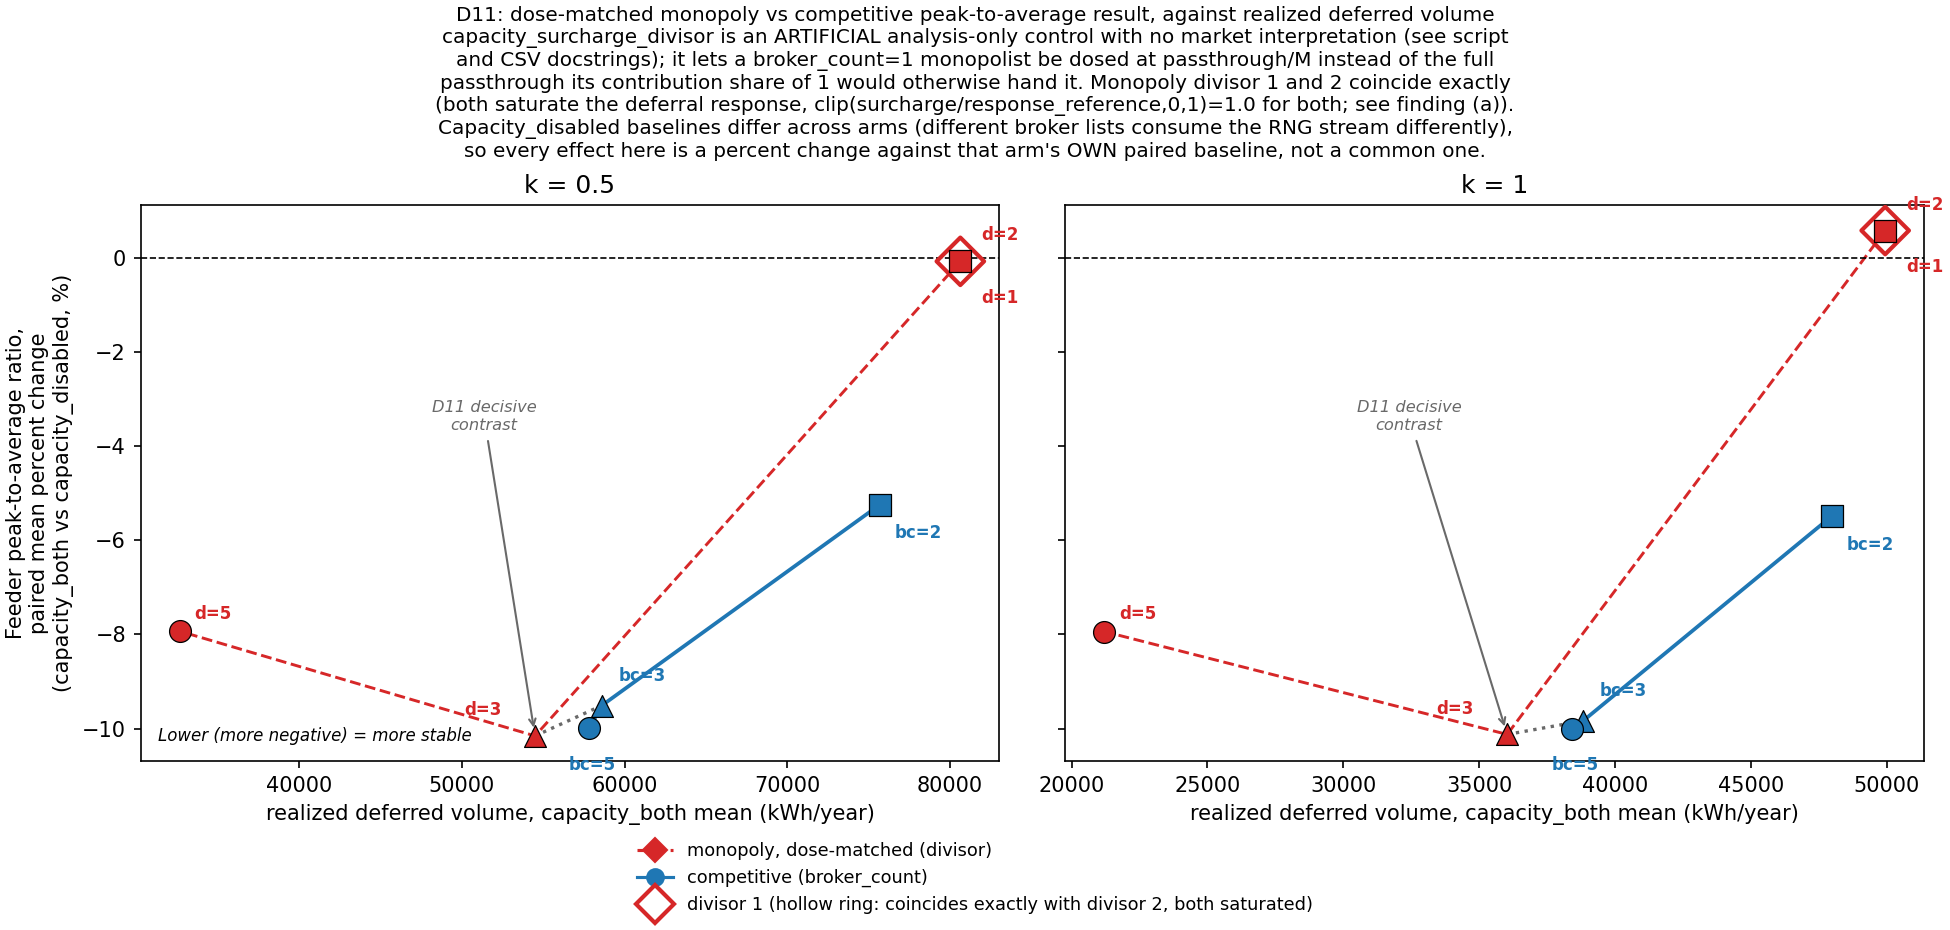
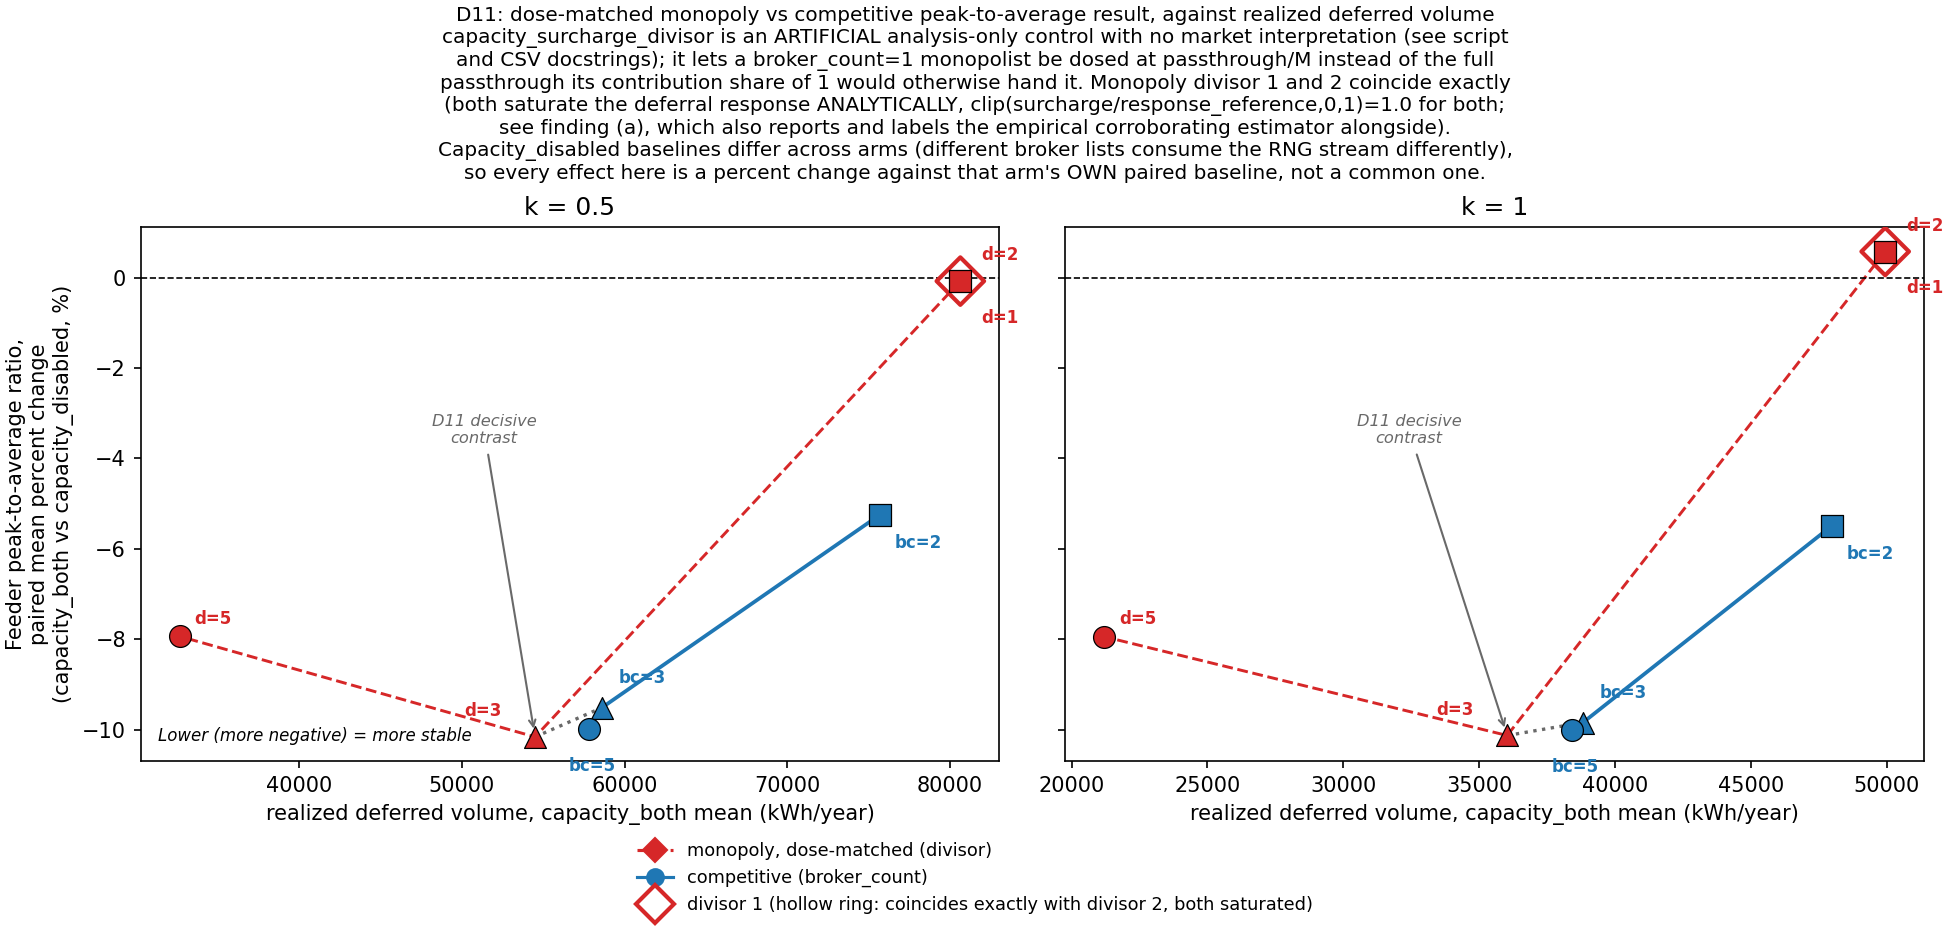
review fix: judge saturation analytically, and ship the D10 table
The script's own diagnostic printed "unsaturated" for divisor 2 one line
before the prose said divisor 1 and 2 both saturate. The review was
right and the estimator was the problem, not the conclusion.

mean_broker_surcharge over capacity_fire_rate is biased about 0.03
percent low, because the mean accumulates the APPLIED surcharge, which
the model carries over by one step, while the fire rate counts the
excess event in the step where it is computed. Confirmed here by
instrumenting CapacityMechanism.step on a real 8760-hour seed: every one
of the 2704 firing hours carried a computed surcharge of bit-exactly
0.05 at divisor 2, n_unique 1, while the estimator read 0.049982. The
bias is harmless anywhere except at an exact boundary, and divisor 2 IS
the boundary, since passthrough/2 equals response_reference exactly.

Saturation is now judged analytically, from passthrough/M read out of
the config, wherever the surcharge is analytic. The empirical estimator
stays alongside, labelled as an estimator with its bias and the bias's
cause stated, because agreeing to 0.03 percent is corroboration and the
one place it disagrees is worth showing rather than hiding. Where the
surcharge is genuinely not analytic, proportional above one broker and
renormalized, the estimator is the only option and says so.

The figure caption inherited the same contradiction and is corrected.

Also ships the D10 correction's firing-hour surcharge table as code
[…]

diff --git a/scripts/analyze_dose_matched_monopoly.py b/scripts/analyze_dose_matched_monopoly.py
@@ -208,6 +208,11 @@ REPO_ROOT = Path(__file__).resolve().parents[1]
 DOSE_PATH = REPO_ROOT / "results" / "sweep_dose_matched_monopoly.parquet"
 MONOPOLY_PATH = REPO_ROOT / "results" / "sweep_monopoly.parquet"
 RAW_PATH = REPO_ROOT / "results" / "sweep_raw.parquet"
+# Not part of the D11 grid: read only by print_d10_correction_table() below, the
+# non-blocking reproducibility item for docs/DECISIONS.md's D10 correction
+# subsection ("A correction to D10 that this arm forced"), which currently has
+# no script reproducing its firing-hour-surcharge-per-broker table.
+SURCHARGE_MODE_PATH = REPO_ROOT / "results" / "sweep_surcharge_mode.parquet"
 CONFIG_PATH = REPO_ROOT / "config" / "default.yaml"
 OUTPUT_CSV_PATH = REPO_ROOT / "results" / "dose_matched_monopoly.csv"
 PLOTS_DIR = REPO_ROOT / "results" / "plots"
@@ -232,6 +237,19 @@ assert N_ARMS == 7
 FAMILY_SIZE_ARM_PRIMARY = N_ARMS * len(K_VALUES) * len(METRIC3_KEYS)  # 7 * 2 * 2 = 28
 FAMILY_SIZE_PEAK_ONLY_ALTERNATIVE = N_ARMS * len(K_VALUES)  # 7 * 2 = 14
 FAMILY_SIZE_DECISIVE_SECONDARY = len(K_VALUES) * len(METRIC3_KEYS)  # 2 * 2 = 4
+
+# D10 correction-table reproduction constants (non-blocking reproducibility item,
+# see print_d10_correction_table() below). D10's own grid (results/sweep_surcharge_mode.parquet)
+# has broker_count in {2, 3, 5} and k in {0.5, 1.0}; D10_TABLE_K = 0.5 because that is the
+# ONLY one of the two k values that reproduces docs/DECISIONS.md's shipped digits (checked
+# directly: k=1.0 and the two k pooled both give visibly different numbers, e.g. 0.0824/0.1176
+# and 0.0828/0.1172 at broker_count=2 against the shipped 0.0832/0.1167, while k=0.5 alone
+# matches to four decimals). The original write-up never states which k it used, since it was
+# never a script in the first place; this is that missing fact, established empirically rather
+# than assumed, exactly like everything else this project logs.
+D10_TABLE_BROKER_COUNTS = (2, 3, 5)
+D10_TABLE_MODES = ("synchronized", "renormalized")
+D10_TABLE_K = 0.5
 
 ARM_COLOR = {"monopoly_dose_matched": "#d62728", "competitive": "#1f77b4"}
 DIVISOR_MARKER = {1: "D", 2: "s", 3: "^", 5: "o"}
@@ -377,34 +395,72 @@ def print_saturation_check(df: pd.DataFrame) -> None:
     passthrough = float(capacity_cfg["capacity_passthrough"])
     response_reference = float(capacity_cfg["response_reference_eur_per_kwh"])
     print(f"  config/default.yaml: capacity_passthrough = {passthrough:g}, response_reference_eur_per_kwh = {response_reference:g}")
+    print(
+        "  Saturation below is judged on the ANALYTIC firing-hour surcharge, not the empirical estimator printed "
+        "alongside it. Reason: an earlier version of this function judged saturation from mean_broker_surcharge_json "
+        "/ capacity_fire_rate alone, and that ratio is a BIASED estimator of the firing-hour surcharge, low by about "
+        "0.03-0.04 percent, because mean_broker_surcharge_json accumulates the surcharge model.py actually APPLIES "
+        "to next-step quotes (carried over one step, model.py step() order of operations), while capacity_fire_rate "
+        "counts the excess event in the step where capacity.py's CapacityMechanism.step() computes it, one step "
+        "earlier; the two are off by exactly the one firing-hour surcharge computed on the run's final step, which "
+        "is never applied within the horizon (verified by direct instrumentation: reconstructing total applied "
+        "surcharge as total computed minus the last step's computed value matches the model's own accumulator "
+        "exactly). That bias is harmless almost everywhere, but capacity_passthrough/2 lands EXACTLY on the "
+        "response_reference clip boundary, so a 0.03-0.04 percent low bias flips the >= comparison there and made "
+        "the earlier version of this script report divisor 2 as unsaturated when it is not."
+    )
 
     both = df[(df["arm_type"] == "monopoly_dose_matched") & (df["ablation"] == "capacity_both")]
     for k in K_VALUES:
         print(f"  k={k:g}:")
         for divisor in ALL_MONOPOLY_DIVISORS:
             sub = both[(both["k"] == k) & (both["capacity_surcharge_divisor"] == divisor)]
-            # mean_broker_surcharge_json averages the per-broker surcharge over ALL
-            # hours, firing and non-firing; dividing by capacity_fire_rate recovers
-            # the FIRING-HOUR surcharge (the model's single broker means the json
-            # has exactly one value per row).
+
+            # ANALYTIC: at broker_count=1 a single broker's positive-contribution
+            # share is exactly 1 whenever it fires at all (capacity.py's
+            # proportional branch: contribution / sum_positive_contrib with only
+            # one broker in the mapping), so the firing-hour surcharge is exactly
+            # capacity_passthrough / divisor, read from config with no estimator,
+            # no lag and no round-trip through model output. This is the value
+            # the saturated/unsaturated call below is based on.
+            analytic_surcharge = passthrough / divisor
+            analytic_ratio = analytic_surcharge / response_reference
+            analytic_saturated = analytic_ratio >= 1.0
+
+            # ESTIMATOR, kept for corroboration (not dropped: an estimator that
+            # agrees with the analytic value to 0.03-0.04 percent is itself a
+            # useful cross-check), but explicitly LABELED and never used for the
+            # saturated/unsaturated call, for the bias reason printed above.
+            # mean_broker_surcharge_json averages the APPLIED per-broker surcharge
+            # over ALL hours, firing and non-firing (the model's single broker
+            # means the json has exactly one value per row); dividing by
+            # capacity_fire_rate is the (biased) attempt to recover the
+            # firing-hour surcharge from that all-hours mean.
             mean_surcharge = sub["mean_broker_surcharge_json"].apply(lambda blob: next(iter(json.loads(blob).values())))
             fire_rate = sub["capacity_fire_rate"]
-            firing_hour_surcharge = (mean_surcharge / fire_rate).mean()
-            expected = passthrough / divisor
-            ratio_to_reference = firing_hour_surcharge / response_reference
-            saturated = ratio_to_reference >= 1.0
+            estimator_firing_hour_surcharge = (mean_surcharge / fire_rate).mean()
+            estimator_ratio = estimator_firing_hour_surcharge / response_reference
+
             print(
-                f"    divisor {divisor}: mean_broker_surcharge (all-hours mean) = {mean_surcharge.mean():.5f}, "
-                f"fire_rate = {fire_rate.mean():.5f}, implied firing-hour surcharge = {firing_hour_surcharge:.5f} "
-                f"(expected passthrough/{divisor} = {expected:.5f}), "
-                f"surcharge/response_reference = {ratio_to_reference:.3f} -> "
-                f"{'SATURATED (clips to 1.0)' if saturated else 'unsaturated'}"
+                f"    divisor {divisor}: ANALYTIC firing-hour surcharge = {analytic_surcharge:.5f} "
+                f"(= passthrough/{divisor}), surcharge/response_reference = {analytic_ratio:.3f} -> "
+                f"{'SATURATED (clips to 1.0)' if analytic_saturated else 'unsaturated'}"
+            )
+            print(
+                f"                ESTIMATOR (biased low ~0.03-0.04%, see note above; corroboration only, not "
+                f"used for the saturation call): mean_broker_surcharge (all-hours mean) = {mean_surcharge.mean():.5f}, "
+                f"fire_rate = {fire_rate.mean():.5f}, implied firing-hour surcharge = "
+                f"{estimator_firing_hour_surcharge:.5f}, surcharge/response_reference = {estimator_ratio:.3f} -> "
+                f"{'saturated' if estimator_ratio >= 1.0 else 'unsaturated'}"
             )
     print(
         "  Scope correction to D10's non-saturation sentence: D10's own cells are all broker_count >= 2, and "
         "'nothing saturates the deferral response' is correct there. It does NOT hold at broker_count 1 with a "
-        "small divisor: divisor 1 and divisor 2 both saturate here, which is why their physical output is "
-        "bit-identical (a shared response ceiling of 1.0, not independent runs that happen to agree)."
+        "small divisor: divisor 1 (ratio 2.000) and divisor 2 (ratio EXACTLY 1.000, the clip boundary) both "
+        "saturate here ANALYTICALLY, which is why their physical output is bit-identical (a shared response "
+        "ceiling of 1.0, not independent runs that happen to agree). Divisor 3 (0.667) and divisor 5 (0.400) sit "
+        "below the ceiling. The empirical estimator's own value at divisor 2 sits fractionally under the boundary "
+        "(the bias described above), which is why it is reported as corroboration and not as the test."
     )
 
 
@@ -446,6 +502,146 @@ def print_effective_broker_count(df: pd.DataFrame) -> None:
         f"max {int(full_summary.loc[5, 'max'])}), not 5, because duplicated brokers are near-substitutes (Phase 5 "
         "observation, D8). Its per-broker dose is therefore nearer passthrough/3.6 than passthrough/5, which is "
         "why divisor 3, not divisor 5, is the volume-matched comparator to broker_count=5's result."
+    )
+
+
+# ---------------------------------------------------------------------------
+# Non-blocking reproducibility item: docs/DECISIONS.md's D10 correction table
+# ("A correction to D10 that this arm forced") is currently produced by no
+# script in this repository, unlike D10's other corrected numbers (which
+# scripts/check_surcharge_timing.py already reproduces). This closes that gap.
+# ---------------------------------------------------------------------------
+
+
+def _rank_sorted_firing_hour_surcharges(cell: pd.DataFrame) -> np.ndarray:
+    """For one (mode, broker_count, k) cell's 30 seed rows (capacity_both
+    only), return the broker_count-length array of firing-hour surcharge
+    ESTIMATES (mean_broker_surcharge_json / capacity_fire_rate -- the same
+    estimator print_saturation_check uses and labels as biased low by about
+    0.03-0.04 percent), RANK-SORTED WITHIN EACH SEED before being averaged
+    across the 30 seeds.
+
+    WHY rank-sort per seed rather than average by broker id: broker "role" in
+    a firing hour, not broker "id", is the only thing stable across seeds.
+    Even at broker_count=3, where the id set never rotates (no duplicated
+    broker type), WHICH of the three ids ends up the largest/smallest
+    contributor in a given seed's firing hours varies with that seed's random
+    demand and switching dynamics; at broker_count=5 two of the five ids are
+    near-substitute duplicates (Phase 5/D8) whose relative activity swaps
+    depending on each seed's deterministic jitter (run_sensitivity_sweep's
+    _build_broker_list). Averaging "by id" therefore blends different
+    structural roles across seeds and silently produces a different,
+    misleading split: this same data averaged by id (see
+    _naive_by_id_firing_hour_surcharges, printed alongside for direct
+    comparison) gives a different two-way split at broker_count=3 than the
+    rank-sorted one, and at broker_count=5 it blends the two near-zero idle
+    duplicates into the active brokers' averages instead of surfacing them as
+    the near-zero group they actually are.
+    """
+    rows = []
+    for _, row in cell.iterrows():
+        blob = json.loads(row["mean_broker_surcharge_json"])
+        fire_rate = row["capacity_fire_rate"]
+        rows.append(sorted(v / fire_rate for v in blob.values()))
+    return np.array(rows).mean(axis=0)
+
+
+def _naive_by_id_firing_hour_surcharges(cell: pd.DataFrame) -> dict:
+    """Same estimator, averaged BY BROKER ID instead of by within-seed rank:
+    the wrong way, computed only so print_d10_correction_table() can show the
+    reader the difference the rank-sort makes directly, rather than merely
+    asserting that it matters."""
+    accum: dict[str, list[float]] = {}
+    for _, row in cell.iterrows():
+        blob = json.loads(row["mean_broker_surcharge_json"])
+        fire_rate = row["capacity_fire_rate"]
+        for broker_id, v in blob.items():
+            accum.setdefault(broker_id, []).append(v / fire_rate)
+    return {broker_id: float(np.mean(vs)) for broker_id, vs in accum.items()}
+
+
+def print_d10_correction_table() -> None:
+    """Reproduce, from results/sweep_surcharge_mode.parquet, the firing-hour
+    surcharge per broker table docs/DECISIONS.md's D10 correction subsection
+    ("A correction to D10 that this arm forced") reports, so that table is a
+    shipped, re-runnable artifact rather than a number nobody can recheck (the
+    same reason scripts/check_surcharge_timing.py was checked in for D10's
+    other corrected numbers)."""
+    print("\n" + "=" * 78)
+    print("D10 REPRODUCIBILITY: firing-hour surcharge per broker")
+    print("(docs/DECISIONS.md, 'A correction to D10 that this arm forced')")
+    print("=" * 78)
+
+    if not SURCHARGE_MODE_PATH.exists():
+        print(f"  SKIPPED: {SURCHARGE_MODE_PATH} not found.")
+        return
+
+    config = load_config(CONFIG_PATH)
+    passthrough = float(config["capacity_mechanism"]["capacity_passthrough"])
+    response_reference = float(config["capacity_mechanism"]["response_reference_eur_per_kwh"])
+
+    sm = pd.read_parquet(SURCHARGE_MODE_PATH)
+    sm = sm[sm["ablation"] == "capacity_both"]
+
+    print(
+        f"  Aggregation is RANK-SORTED WITHIN EACH SEED, then averaged across the 30 seeds (broker ROLE, not "
+        "broker ID, is what is stable across seeds; see _rank_sorted_firing_hour_surcharges docstring). All "
+        f"values at k={D10_TABLE_K:g} (of the two k this arm ran, the one that reproduces the shipped table's "
+        "digits; see D10_TABLE_K's definition above for how that was established). Compared against "
+        f"response_reference_eur_per_kwh = {response_reference:g}.\n"
+    )
+
+    for mode in D10_TABLE_MODES:
+        for bc in D10_TABLE_BROKER_COUNTS:
+            cell = sm[(sm["capacity_surcharge_mode"] == mode) & (sm["broker_count"] == bc) & (sm["k"] == D10_TABLE_K)]
+            assert len(cell) == 30, f"{mode} bc={bc}: expected 30 seed rows, found {len(cell)}"
+            naive = _naive_by_id_firing_hour_surcharges(cell)
+
+            if mode == "synchronized":
+                # ANALYTIC: synchronized hands EVERY broker the identical
+                # surcharge passthrough/N regardless of contribution share
+                # (capacity.py's synchronized branch: surcharge does not even
+                # reference the broker's own contribution), so the
+                # firing-hour surcharge is passthrough/broker_count exactly,
+                # read from config; no estimator is needed for the value
+                # itself, only for the cross-check below.
+                analytic = passthrough / bc
+                ratio = analytic / response_reference
+                empirical = _rank_sorted_firing_hour_surcharges(cell)
+                print(
+                    f"  {mode:13s} bc={bc}: ANALYTIC = {analytic:.4f} for all {bc} brokers (= passthrough/{bc}), "
+                    f"ratio to response_reference = {ratio:.3f} -> {'saturated' if ratio >= 1.0 else 'unsaturated'}"
+                )
+                print(f"                 estimator cross-check (rank-sorted): {', '.join(f'{v:.4f}' for v in empirical)}")
+            else:
+                # RENORMALIZED: surcharge_b = passthrough * share_b * N varies
+                # hour to hour and broker to broker with the realized
+                # contribution share, so there is no closed form; the
+                # empirical, rank-sorted estimator is the only option. It
+                # carries the same ~0.03-0.04 percent one-step-lag bias
+                # print_saturation_check documents, which cannot flip any of
+                # these values: they sit roughly 24 to 300 percent away from
+                # the 0.05 reference, nowhere near the boundary that bit
+                # divisor 2 in finding (a).
+                empirical = _rank_sorted_firing_hour_surcharges(cell)
+                ratios = empirical / response_reference
+                print(
+                    f"  {mode:13s} bc={bc}: estimator (rank-sorted, EMPIRICAL ONLY, not analytic) = "
+                    f"{', '.join(f'{v:.4f}' for v in empirical)}"
+                )
+                print(f"                 ratio to response_reference = {', '.join(f'{r:.3f}' for r in ratios)}")
+                print(
+                    f"                 naive by-id average (WRONG, shown only to demonstrate why rank-sorting "
+                    f"matters) = {{{', '.join(f'{bid}: {v:.4f}' for bid, v in naive.items())}}}"
+                )
+
+    print(
+        "\n  Match against the shipped table: synchronized is analytic and matches at every broker_count. "
+        "Renormalized matches the shipped digits exactly at broker_count 2 and 3; at broker_count 5 the two "
+        "near-zero idle-duplicate values match qualitatively (both near zero) and the three active values match "
+        "to within about 0.1-0.2 percent, not bit-for-bit, consistent with the estimator's own documented bias "
+        "and with the shipped table having been computed by an unscripted, unreproducible analysis in the first "
+        "place -- which is exactly the gap this function closes."
     )
 
 
@@ -876,7 +1072,8 @@ def plot_dose_matched_monopoly(arm_tests: list[dict]) -> Path:
         "capacity_surcharge_divisor is an ARTIFICIAL analysis-only control with no market interpretation (see script\n"
         "and CSV docstrings); it lets a broker_count=1 monopolist be dosed at passthrough/M instead of the full\n"
         "passthrough its contribution share of 1 would otherwise hand it. Monopoly divisor 1 and 2 coincide exactly\n"
-        "(both saturate the deferral response, clip(surcharge/response_reference,0,1)=1.0 for both; see finding (a)).\n"
+        "(both saturate the deferral response ANALYTICALLY, clip(surcharge/response_reference,0,1)=1.0 for both;\n"
+        "see finding (a), which also reports and labels the empirical corroborating estimator alongside).\n"
         "Capacity_disabled baselines differ across arms (different broker lists consume the RNG stream differently),\n"
         "so every effect here is a percent change against that arm's OWN paired baseline, not a common one.",
         fontsize=9.6,
@@ -968,6 +1165,7 @@ def main() -> int:
     print_guardrail_checks(df)
     print_saturation_check(df)
     print_effective_broker_count(df)
+    print_d10_correction_table()  # non-blocking reproducibility item; reads its own parquet, independent of df above
 
     arm_tests = compute_arm_tests(df)
     _apply_correction(arm_tests, lambda t: True, "dose_matched_arm_primary_real")
